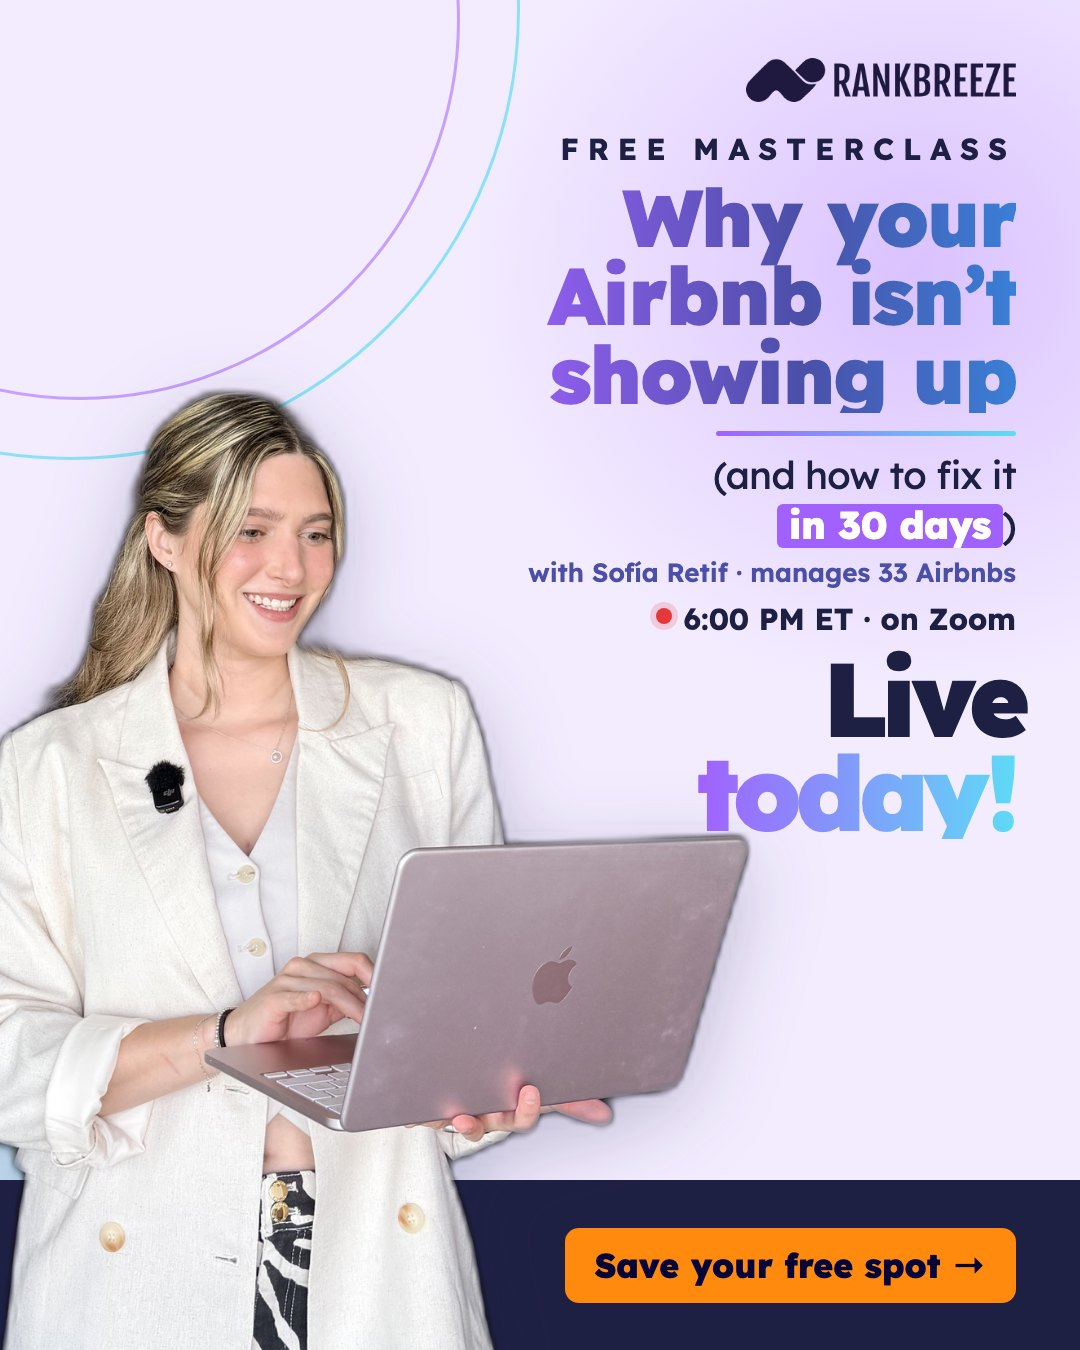
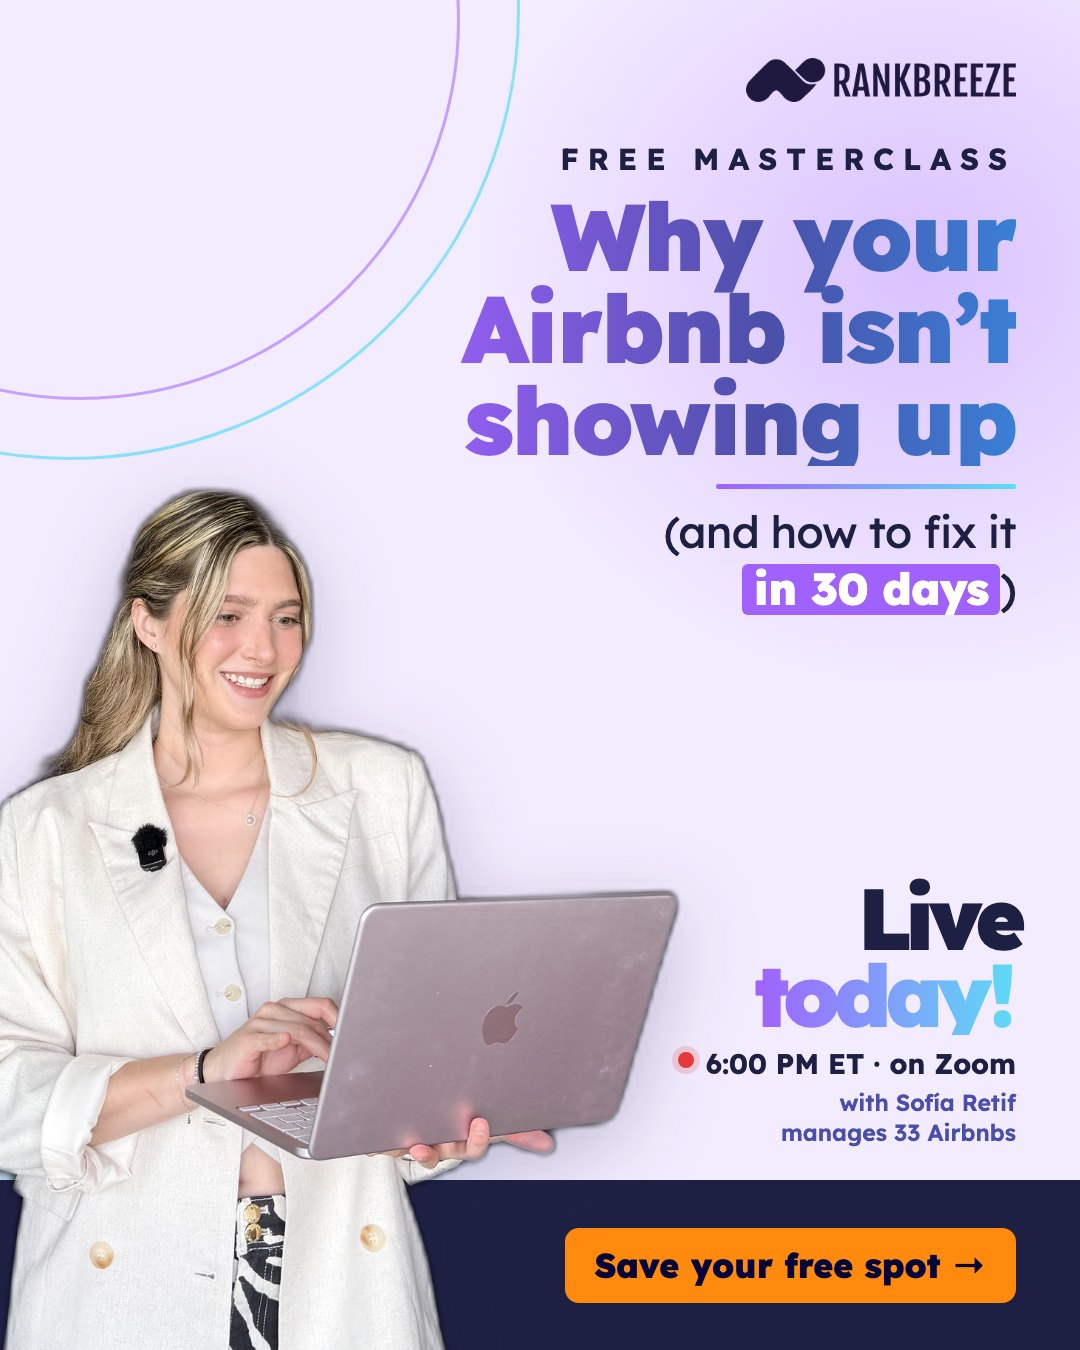
RankBreeze portfolio: masterclass post with bigger headline, event info beside the laptop

Changed region(s): [[0.0, 0.0933, 0.9472, 1.0], [0.4889, 0.7156, 0.55, 0.7467]]

diff --git a/rankbreeze/index.html b/rankbreeze/index.html
@@ -860,7 +860,7 @@
         <p class="mc-k">Headlines I'd A/B test</p>
         <ol class="heads"><li class="on"><span>A</span>Why your Airbnb isn’t showing up (and how to fix it in 30 days)</li><li><span>B</span>Back to page 1: 3 data-backed fixes to get your Airbnb booked more</li><li><span>C</span>Page 14 → Page 2: how hosts climb Airbnb search</li><li><span>D</span>Your listing didn’t get worse. It got buried.</li><li><span>E</span>Stop guessing: the price, photos and title that actually book</li><li><span>F</span>The 3 ranking levers Airbnb doesn’t tell you about</li></ol>
       </div>
-      <figure class="mc-poster"><img src="/assets/rankbreeze/masterclass-poster.jpg?v=6" alt="Concept Instagram post for a free Rankbreeze masterclass: Why your Airbnb isn’t showing up (and how to fix it in 30 days), live today with Sofía Retif" loading="lazy"><figcaption>The launch post, in your brand</figcaption></figure>
+      <figure class="mc-poster"><img src="/assets/rankbreeze/masterclass-poster.jpg?v=7" alt="Concept Instagram post for a free Rankbreeze masterclass: Why your Airbnb isn’t showing up (and how to fix it in 30 days), live today with Sofía Retif" loading="lazy"><figcaption>The launch post, in your brand</figcaption></figure>
     </div>
     <p class="ig-note">Concept mockup made for this application. Not an official Rankbreeze account or post.</p>
   </div>
